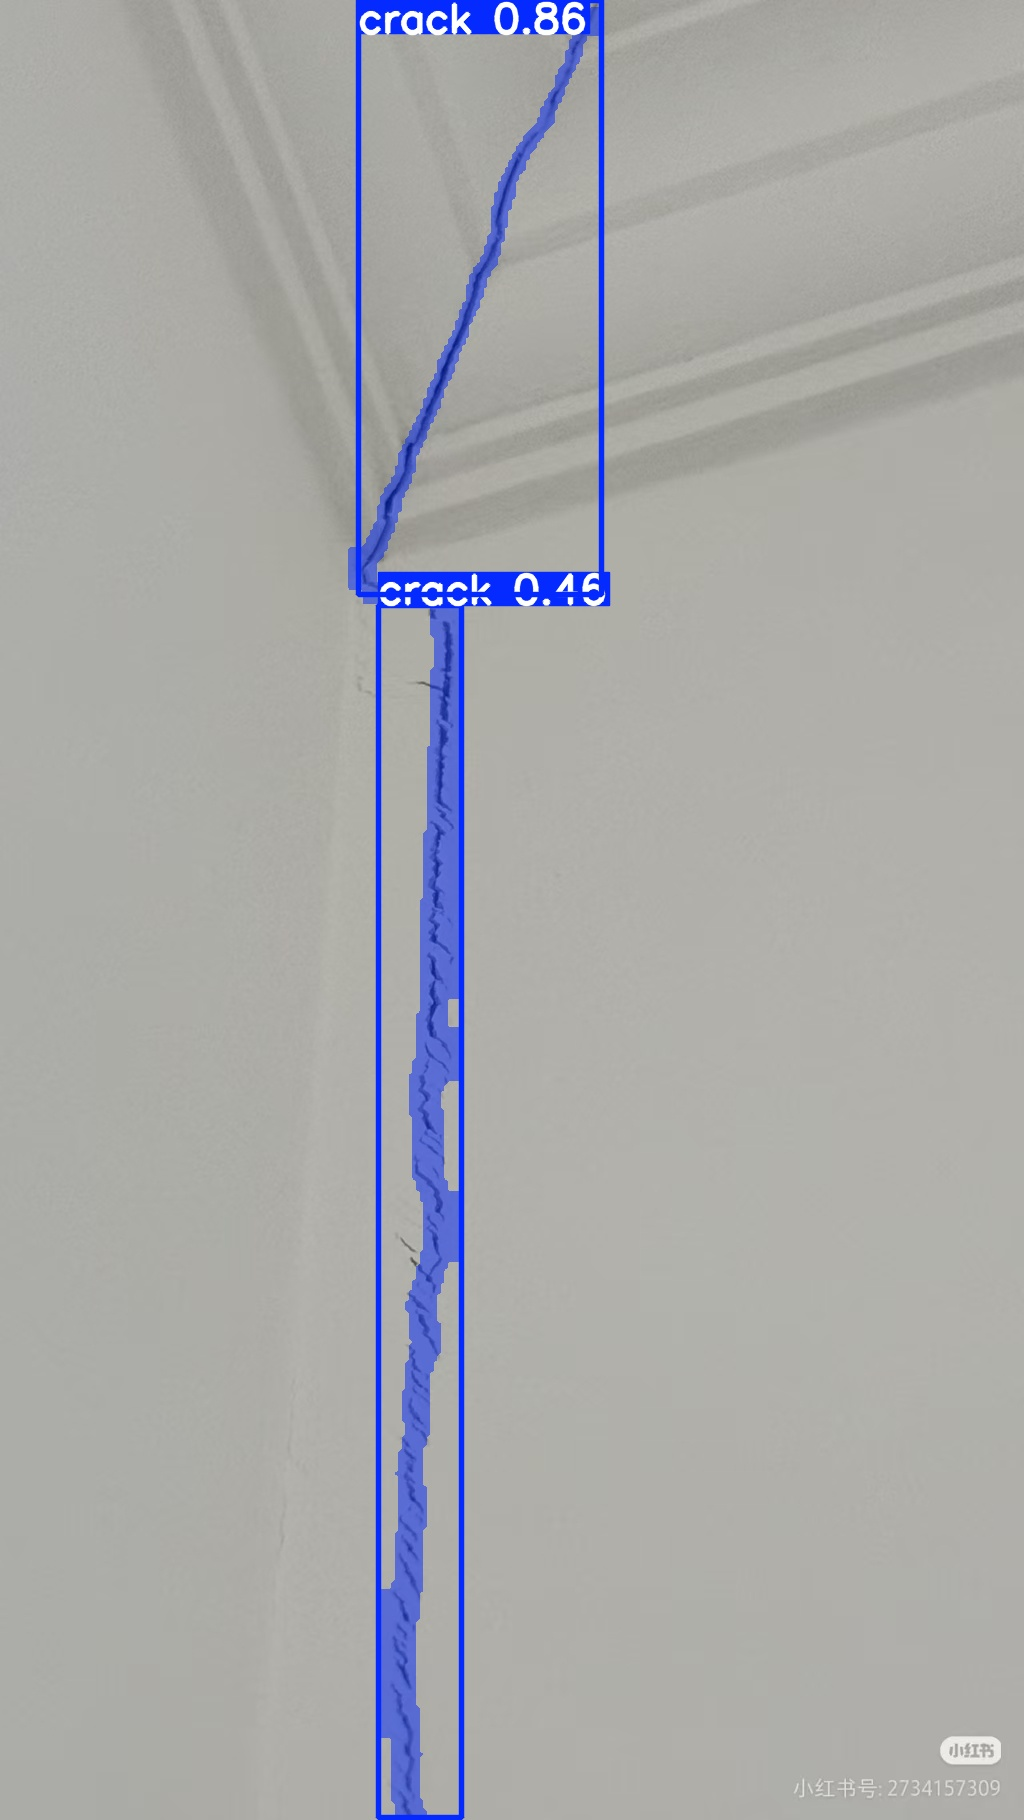
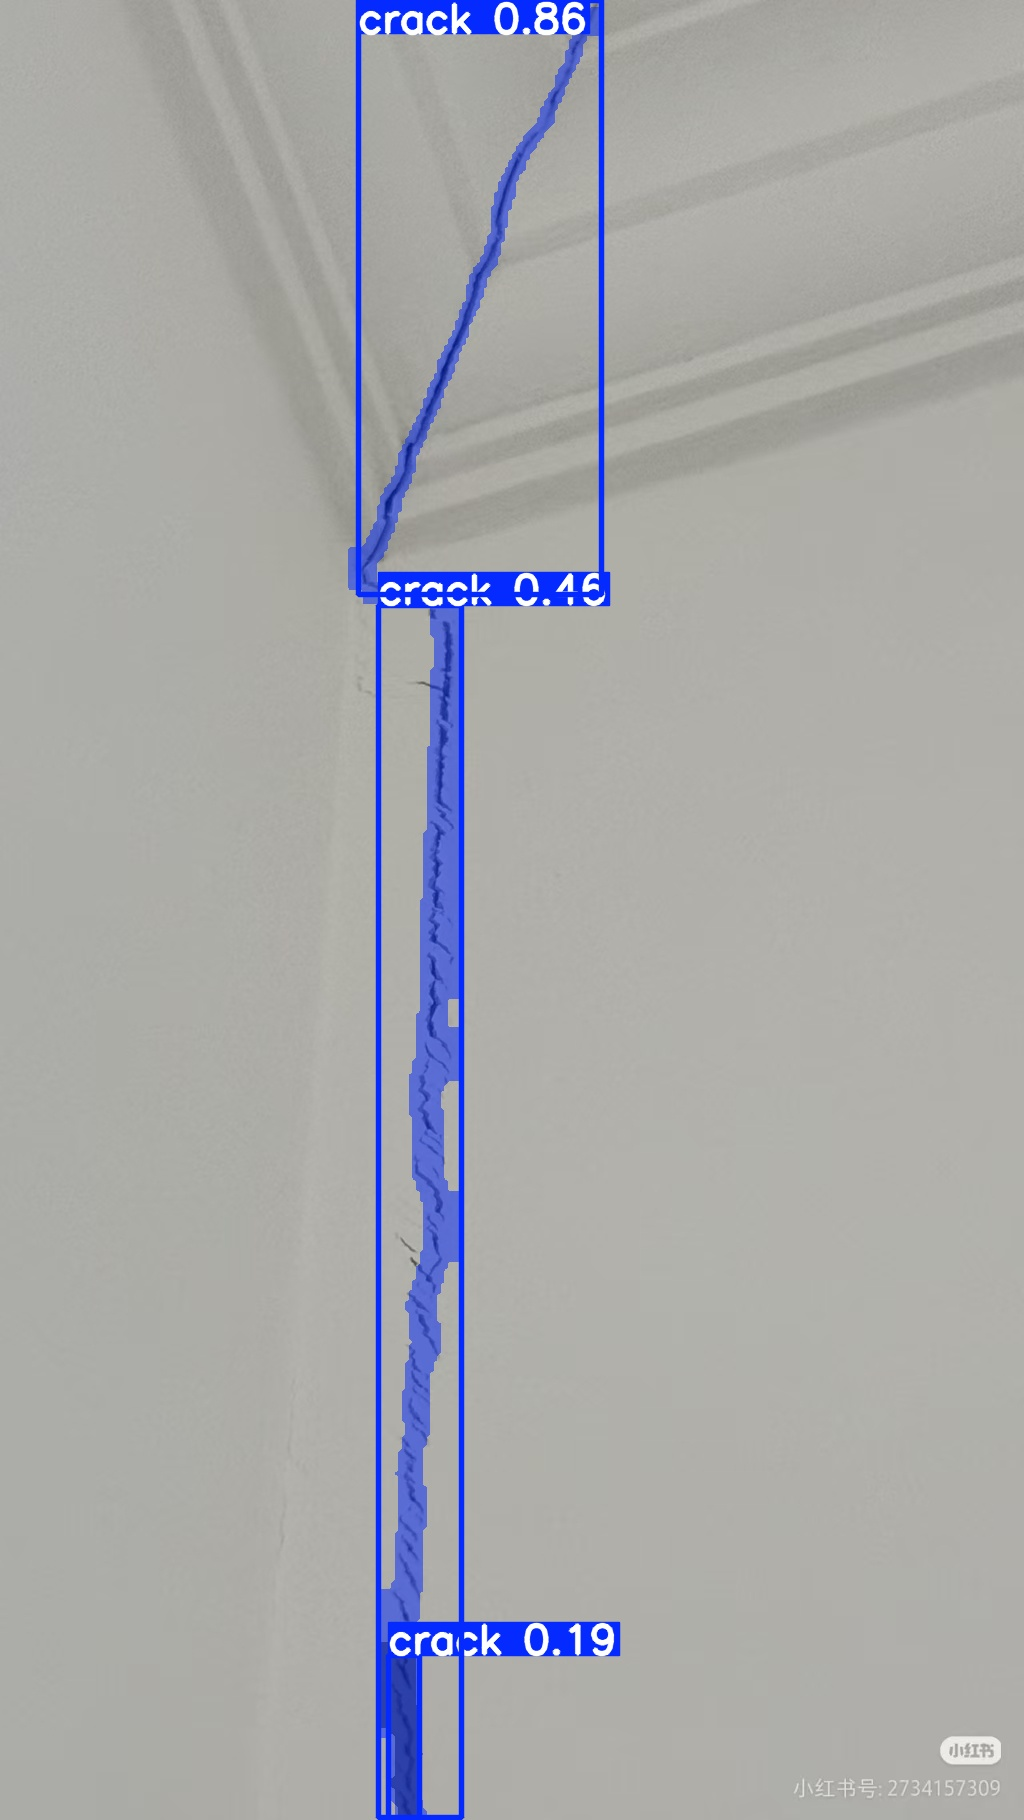
调参

Changed region(s): [[0.375, 0.8923, 0.625, 1.0]]

diff --git a/train.py b/train.py
@@ -101,6 +101,9 @@ def train_model(config_path='configs/train_config.yaml',
         warmup_epochs=config['warmup_epochs'],
         warmup_momentum=config['warmup_momentum'],
         warmup_bias_lr=config['warmup_bias_lr'],
+        cos_lr=config['cos_lr'],
+        dropout=config['dropout'],
+        multi_scale=config['multi_scale'],
         patience=config['patience'],
         save=config['save'],
         save_period=config['save_period'],
@@ -121,6 +124,8 @@ def train_model(config_path='configs/train_config.yaml',
         mosaic=config['mosaic'],
         mixup=config['mixup'],
         copy_paste=config['copy_paste'],
+        mask_ratio=config['mask_ratio'],
+        box=config['box'],
         # 项目名称
         project='outputs/runs',
         name='crack_detection',

diff --git a/evaluate.py b/evaluate.py
@@ -219,7 +219,7 @@ def plot_comparison(df, output_dir):
 if __name__ == '__main__':
     parser = argparse.ArgumentParser(description='评估建筑裂缝检测模型')
     parser.add_argument('--models', type=str, nargs='+',
-                        default=['outputs/runs/crack_detection/weights/best.pt'],
+                        default=['runs/segment/outputs/runs/crack_detection/weights/best.pt'],
                         help='模型权重路径列表')
     parser.add_argument('--data', type=str, default='data/crack-seg/data.yaml',
                         help='数据集配置文件')
